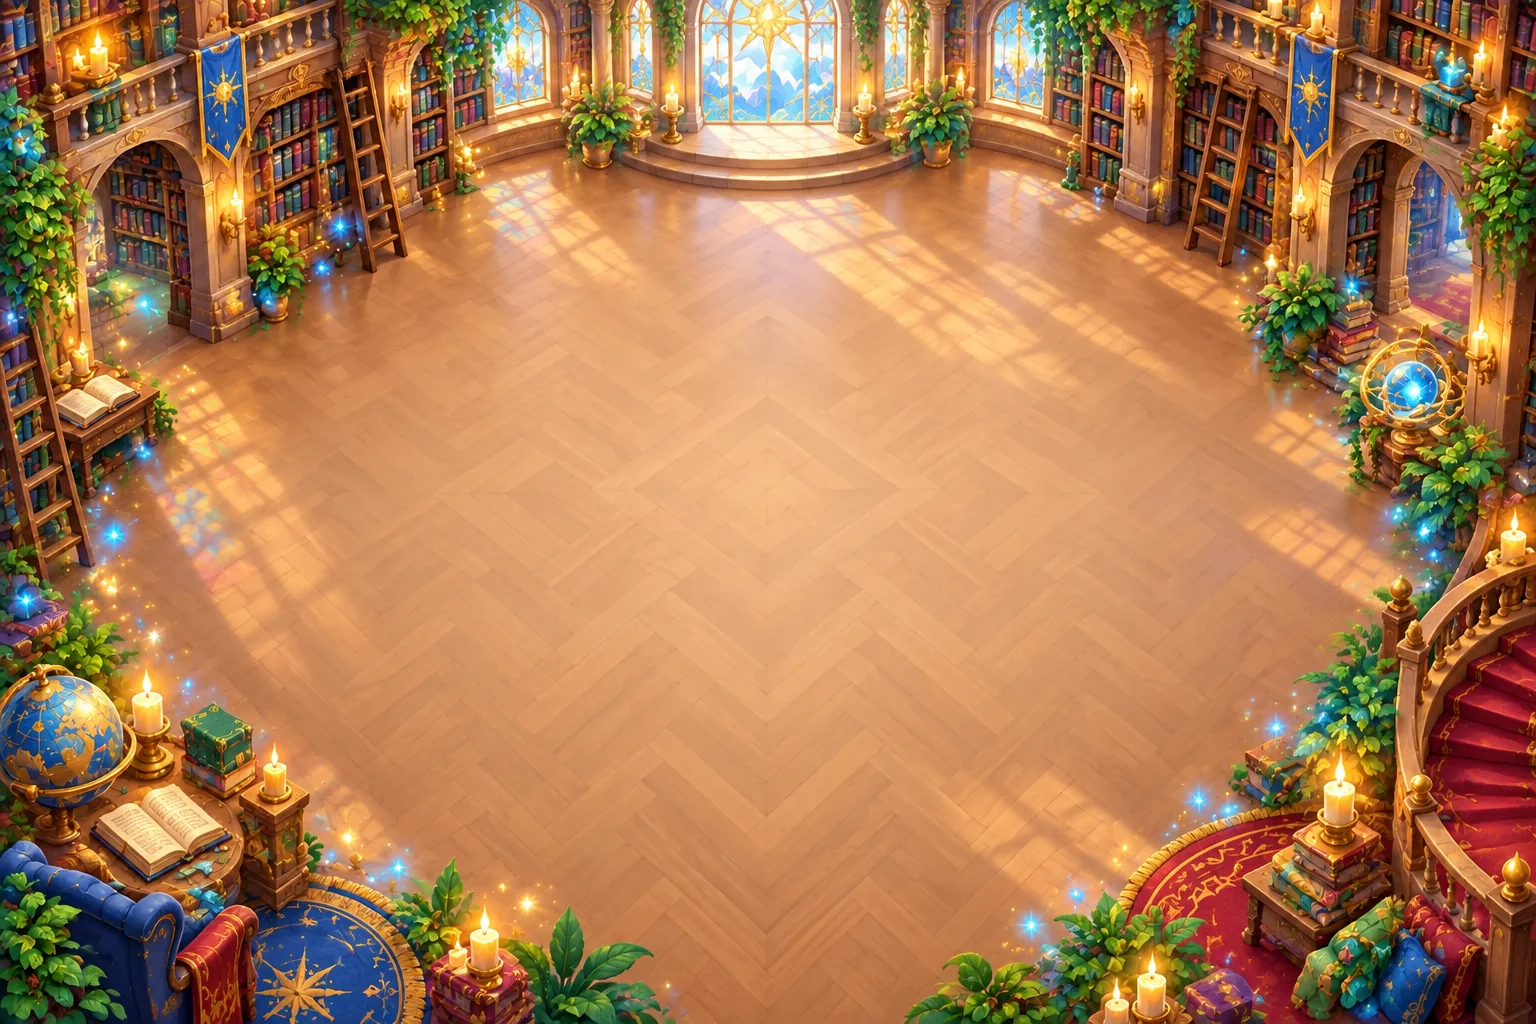
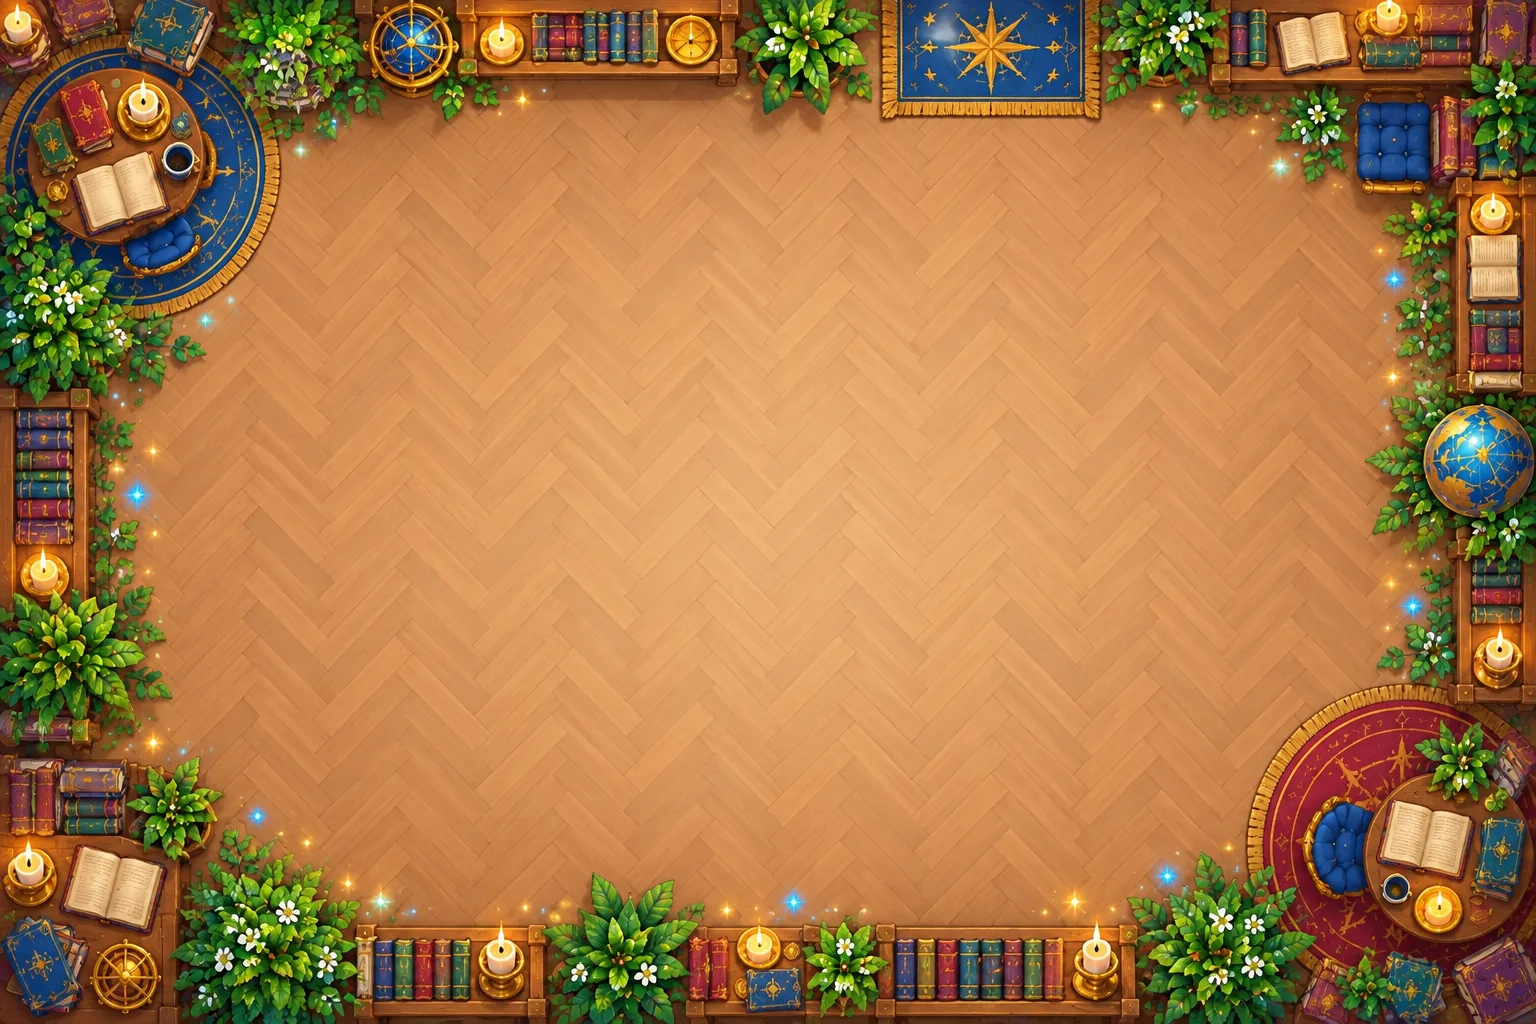
Correct modern board backgrounds to true top-down view

diff --git a/AGENTS.md b/AGENTS.md
@@ -1,0 +1,20 @@
+# SifferSnoken – visuella produktionsregler
+
+## Moderna banbakgrunder
+
+- Alla banor ska ses exakt 90 grader uppifrån med ortografiskt perspektiv, eftersom snoken alltid renderas uppifrån.
+- Använd aldrig snett fågelperspektiv, isometriskt perspektiv, horisont eller flyktpunkter.
+- Visa inte framsidor eller sidoytor på väggar, klippor, läktare, trappor, mål, möbler, byggnader eller andra objekt. Endast deras ovansidor eller plana fotavtryck får synas.
+- Håll minst cirka 65 procent av mitten öppen, jämn, lågkontrast och fri från stora detaljer så snoken och svaren förblir lättlästa.
+- Placera temadetaljer och de starkaste färg-/ljuskontrasterna huvudsakligen längs ytterkanterna.
+- Bakgrunder får inte innehålla snokar, figurer, siffror, läsbar text, UI eller logotyper.
+- Runtimeformat är ogenomskinlig WebP i 1536 × 1024.
+- Kontrollera alltid den färdiga banan tillsammans med en modern snok i själva spelet innan leverans.
+
+## Moderna snokskins
+
+- Runtimebilder ska vara WebP med riktig alfakanal; ingen inbakad vit, svart eller schackrutig bakgrund.
+- Kroppsdelar ska vara tydligt rundade och organiska, inte kvadratiska.
+- Lägg inte en rad stora runda cirklar/prickar tvärs över mitten av kroppsdelarna.
+- Svansens plana fästkant ska möta sista kroppsdelen utan synlig glipa eller onödigt stor överlappning.
+- Kroppens gradvisa transparens ska även omfatta svansen.

diff --git a/CHANGELOG.md b/CHANGELOG.md
@@ -2,6 +2,16 @@
 
 ## 2026-09-11
 
+### Korrigerat perspektiv för moderna banbakgrunder
+- `assets/kristallgrotta.webp`, `assets/soltemplet.webp`, `assets/fotbollsplan.webp`, `assets/hockeyrink.webp`, `assets/korallrev.webp`, `assets/molnstaden.webp`, `assets/vulkanon.webp` och `assets/magiska-biblioteket.webp`
+  - omgjorda till strikt ortografisk 90-gradersvy uppifrån så perspektivet stämmer med snoken
+  - behåller respektive tema men visar bara plana ytor och ovansidor längs kanterna
+  - fotbollsplanen och hockeyrinken har exakt två mål vardera, ett på vänster och ett på höger kortsida
+- `assets/sagoskog.webp`
+  - granskad och lämnad orörd eftersom den redan följer top-down-regeln
+- `AGENTS.md`
+  - dokumenterar top-down-perspektivet och övriga etablerade grafikregler för framtida arbetspass
+
 ### Moderna skins: Prismagodis och Clockwork
 - `skins/modern-prism-candy-*.webp`
   - nytt rundat och halvtransparent kristallgodisskin med pärlemor, prismatiska färgskiftningar och mjukt regnbågsskimmer
